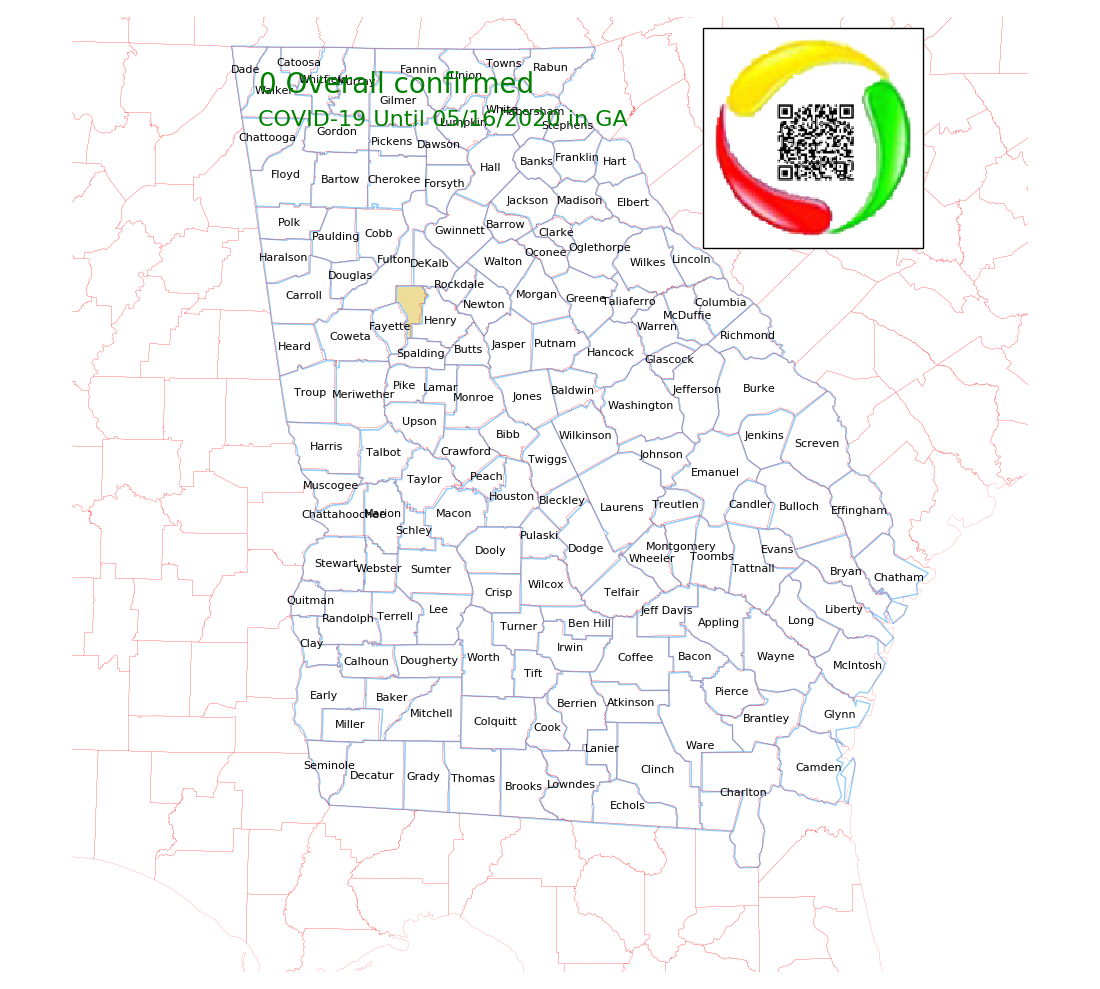
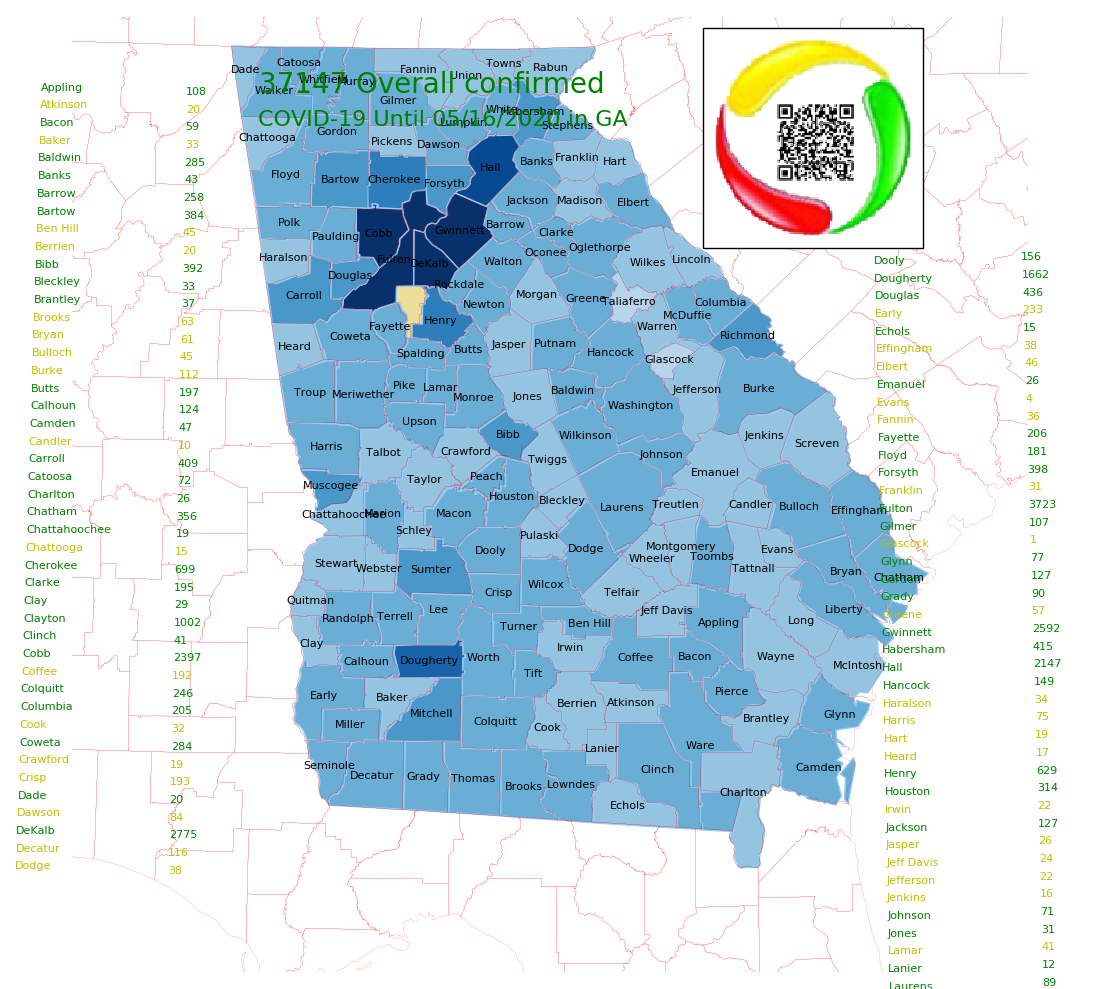
always save latest results

diff --git a/coviz.py b/coviz.py
@@ -145,9 +145,6 @@ class runCoViz(object):
             if(len(self.l_mi_cases) > 0):
                 self.img_overlay = self.img_map.copy()
                 self.infoShowCases(self.img_overlay, self.l_mi_cases)
-                #cv2.imwrite(self.state_dir + 'results/mi_county'+self.name_file+'.png', self.img_overlay)
-                #if(self.isNameOnToday(self.name_file)):
-                #    cv2.imwrite(self.state_dir + 'results/mi_county20200000.png', self.img_overlay)
             pass  
         elif(key == 65476 or key == 1114052 or key == 7798783 or key == 7733248):   # F7 key run all commands
             self.stateMachine = 100 
@@ -362,6 +359,14 @@ class runCoViz(object):
         if(fName is not None): self.save2File( lst_data, fName )
         return lst_data
     def isNameOnToday(self, f_name):
+        data_dir = self.state_dir + 'data'
+        csv_data_files = sorted( [f for f in listdir(data_dir) if isfile(join(data_dir, f))] )
+        if( len(csv_data_files) < 1): return False
+        if f_name in csv_data_files[-1]:
+            return True		# if is the latest data
+        else:
+            return False
+        '''
         if(self.state_name in 'NY'): return True
         if(self.state_name in 'OH'): return True
         if(self.state_name in 'MS'): return True
@@ -371,6 +376,7 @@ class runCoViz(object):
             return True
         else:
             return False
+        '''
     ## step 1
     ## grab data from goverment website
     def cmdGrabDataFromWebsite(self):
